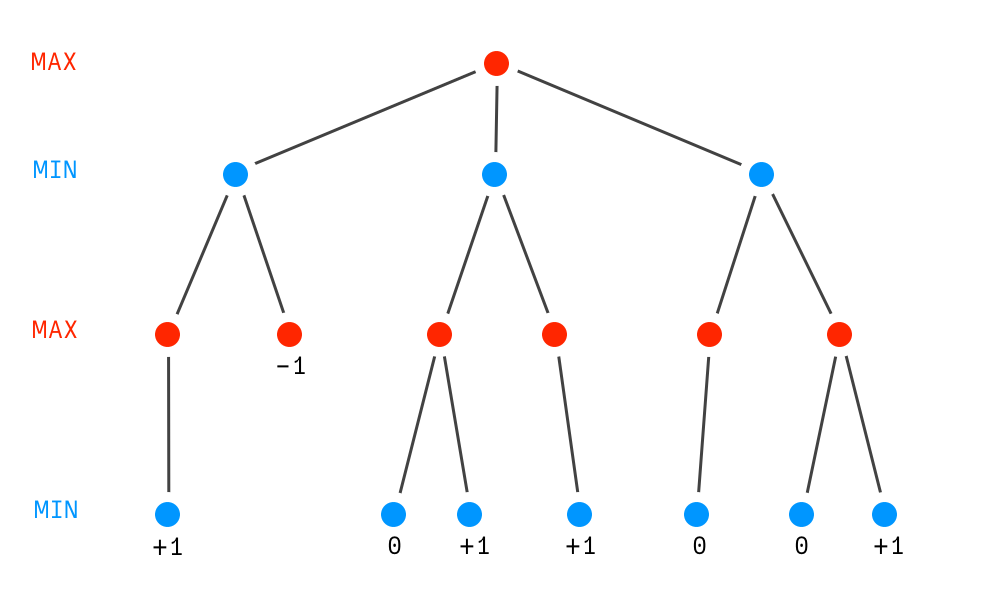
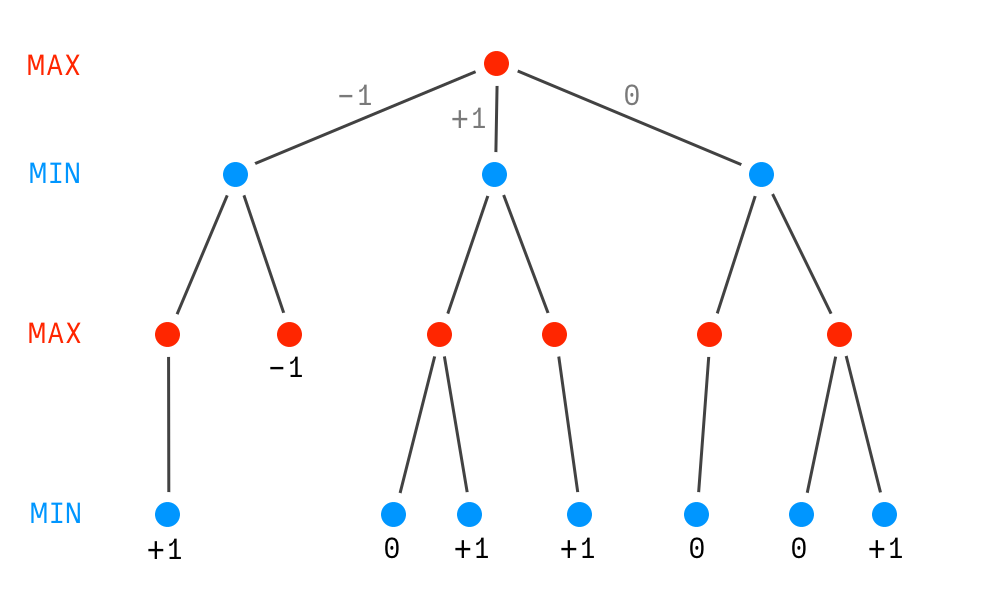
Improve test & images

diff --git a/content/posts/2020-01-13-connect4-ai/index.md b/content/posts/2020-01-13-connect4-ai/index.md
@@ -30,29 +30,31 @@ I just finished building an artificial intelligence for Connect Four that entire
 
 On a high level, the Connect Four AI is a set of (well established) algorithms, which are used to predict and assess how the game could possibly evolve from any given situation. While computers are generally good at performing a lot of calculations in a short amount of time, the problem space of Connect Four is enormous nonetheless: starting from an empty grid, there are almost 5 trillion[^1] possible courses through the game that will either end in one player winning or in a draw. Under the (of course ludicrously utopian) assumption that a computer would be capable of evaluating one prospective turn per clock stroke, it would take a 3 GhZ CPU up to half an hour to eventually decide for a single move. Multiply that by the amount of clock cycles it takes for real and you understand that this wouldn’t be exactly fun to interact with.
 
-My goal with this project was to build an AI that runs completely client-side and that is still challenging to play against. These objectives are somewhat contradictory, because the strength of the AI mostly depends on computing power while the client’s resources can be highly limited (e.g. on older smartphones). In order to limit the waiting time for the user, I decided to concede a certain number computational cycles that the AI is allowed to execute until it must ultimately yield its next move. This is called “iteration budget”. Since the runtime of each iteration is roughly constant, the iteration budget is a simple and sufficient mechanism to keep the overall turn time within reasonable bounds.
+My goal with this project was to build an AI that runs completely client-side and that is still challenging to play against. These objectives are somewhat contradictory, because the strength of the AI mostly depends on computing power while the client’s resources can be highly limited (e.g. on older smartphones). In order to limit the waiting time for the user, I decided to concede a certain number of computational cycles that the AI is allowed to execute until it must ultimately yield its next move. This is called “iteration budget”. Since the runtime of each iteration is roughly constant, the iteration budget is a simple and sufficient mechanism to keep the overall turn time within reasonable bounds.
 
-The technology for the implementation is mostly dictated by the target platform (the web browser), which is why I wrote the AI in JavaScript. It goes without saying that the general performance of the algorithms matters a lot, because the functions are executed over and over again. My project has a strong experimental and educational character, hence I didn’t sacrifice modularity and coding style consistency for performance optimisations. If you are interested in details, you find the [source code](https://github.com/jotaen/connect4-ai) on GitHub. The tech stack is: JavaScript (mostly written in a functional style using the [Ramda library](https://ramdajs.com/)) and React for the web frontend.
+The technology for the implementation is mostly dictated by the target platform (the web browser), which is why I wrote the AI in JavaScript. It goes without saying that the general performance of the algorithms matters a lot, because the functions are executed over and over again. My project has a strong experimental and educational character, so I attributed more importance to modularity and coding style consistency than to excessive performance optimisations. You also might notice that the involved components sometimes have overlapping (redundant) effects.
+
+The [source code](https://github.com/jotaen/connect4-ai) resides on GitHub and the tech stack is: JavaScript (mostly written in a functional style using the [Ramda library](https://ramdajs.com/)) and React for the web frontend. There is also a CLI interface.
 
 # Components of the Connect Four AI
 
 ## Minimax and tree evaluation
 
-The heart of the AI is an algorithm called Minimax. If you haven’t heard of this yet, let me tell you that you have probably already applied it in daily live. Remember, for instance, how football teams were assembled back in school: starting with two captains, each team alternatingly nominates one player to join them until no player is left. The goals are to obtain the best players on the one hand and to establish a good balance of skills at the same time. Each team can only pick one player at a time, so they must assume that the other team will select the next best available player and factor this prediction into their own decision.
+The heart of the AI is an algorithm called Minimax. If that name sounds unfamiliar to you, let me tell you that you have probably already applied it in daily live. Remember, for instance, how football teams were assembled back in school: starting with two captains, each team alternatingly nominates one player to join them until no player is left. The goals are to obtain the best players on the one hand and to establish a good balance of skills at the same time. Each team can only pick one player per turn, so in order to achieve the best possible result they also need to factor in what player the other team will most likely choose afterwards.
 
-The way the AI evaluates future moves of Connect Four follows the same mechanism. It simulates dropping a disc into one of the free slots and then puts itself into the opponent’s shoes to see how they could possibly react. Based on these hypothetic outcomes, it tries out all further options again – and so on and so forth. Both players have precisely opponing goals, because a win for one player automatically means a loss for the other and vice versa[^2]. This decision making strategy can be modelled as a tree structure like so:
+The way the AI evaluates future moves in Connect Four follows the same mechanism. It simulates dropping a disc into each of the free slots and then puts itself into the opponent’s shoes to see how they could possibly react. Based on these hypothetic outcomes, the AI tries out all further options again – and so on and so forth. Both players have precisely opponing goals, because a win for one player automatically means a loss for the other and vice versa[^2]. This decision making strategy can be modelled as a tree structure like so:
 
 ![Decision tree for predicting future game evolvements](/posts/2020-01-13-connect4-ai/game-tree.png)
 
-Let’s settle on some terminology first: the top of the **tree** is called **root node** and represents the current game situation after the opponent has finished their turn. In the picture above there are three choices (think: three available slots to drop into) which are called **branches**. These lead to the next potential game states (**nodes**) and their subsequent **subtrees**. This way the hypothetic future of the game can be explored until a final state is reached – a **leaf node**. This either means that one player has won or that the game has ended in a draw. The **depth** of the above tree is 3 levels. The numbers that are assigned to the leaf nodes are **scores** that are needed to make a quantified decision. Positive scores indicate that the AI would win the game, negative scores mean that it would lose, and neutral score are a draw (here: `0`).
+Let’s settle on some terminology first: the top of the **tree** is called **root node** and represents the current game situation after the opponent has finished their turn. In the picture above there are three choices (think: three available slots to drop into) which are called **branches**. These lead to the next potential game states (**nodes**) and their subsequent **subtrees**. This way the hypothetic future of the game can be explored until a final state is reached – a **leaf node**. This either means that one player has won or that the game has ended in a draw. The **depth** of the above tree is 3 levels. The numbers that are assigned to the leaf nodes are **scores** that are needed to make a quantified decision. Positive scores indicate that the AI would win the game, negative scores mean that it would lose, and a neutral score is a draw (here: `0`).
 
-In order to render a decision for the next move, the tree is unwinded from the leaves upwards: if the AI is on turn (i.e. the node is controlled by MAX) the branch with the highest score is chosen. When the opponent is on turn (i.e. node is controlled by MIN), the AI assumes that the opponent would choose the branch with the lowest possible score. That way the scores bubble up from the leaves to the root, while the decision strategy alternates at every level. As soon as the root level branch happens to have a positive score the AI can be sure that it is able to enforce a win by entering that particular branch (i.e. dropping a disc into that slot). In the above example, the AI would decide for the middle branch – no matter how the opponent would react, the AI can enforce winning the game in any event. This is different for both of the other branches, where the opponent (MIN) would either win (left branch) or could at least enforce a draw (right branch).
+In order to render a decision for the next move, the tree is unwinded from the leaves upwards: if the AI is on turn (i.e. the node is controlled by MAX) the branch with the highest score is chosen. When the opponent is on turn (i.e. node is controlled by MIN), the AI assumes that the opponent would choose the branch with the lowest possible score. That way a score bubbles up from the leaves to the root, while the decision strategy alternates at every level. If a root branch happens to show a positive score, the AI can be sure that it is able to enforce a win by entering that particular branch (i.e. dropping a disc into that slot). In the above example, the AI would decide for the middle branch, because regardless of how the opponent reacts, the AI will bring the game to a win. This is different for both of the other branches, where the game will either be lost (left branch) or ends a draw (right branch). At the end of the day we can only speculate about the opponent’s behaviour of course, but at least we have no reason to believe that they would do us a favour intentionally.
 
-The Minimax algorithm is the heart of the Connect Four AI. While “thinking” the computer repetitively simulates turn after turn in the hope to find a path through the tree that will eventually end in a definite win from the root. Most of the time, unfortunately, this will not be so simple…
+The Minimax algorithm is the heart of the Connect Four AI. While “thinking” the computer repetitively simulates turn after turn in the hope to find a path through the tree that will eventually end in a definite win. Most of the time, unfortunately, things are not that simple…
 
 ## Heuristics
 
-For most of the time during the game, the AI will not be able to evaluate the game tree to the very bottom and discern all leaves. Remember: the maximum tree depth is 42 for a blank grid and we already learned that this would require evaluating almost 5 trillion nodes. Realistically, we can expect to evaluate some thousands or ten thousands nodes at most, depending on the client’s hardware. Therefore, the tree depth must be capped at some level in order to meet the iteration budget. Especially in the beginning of the game there will be mostly unknown scores for the root level branches.
+For most of the time during the game, the AI will not be able to evaluate the game tree to find all leaves. Remember: the maximum tree depth is 42 for a blank grid and we already learned that this would require evaluating almost 5 trillion nodes. Realistically, we can expect to evaluate some thousands or ten thousands nodes at most, depending on the client’s hardware. Therefore, the tree depth must be capped at some level in order to meet the iteration budget. Especially in the beginning of the game there will be mostly unknown scores for the root level branches.
 
 The computer can still make reasonable assumptions in order to maximise its chances, despite there not being any ascertainable or necessarily positive outcomes in sight. These decision-making strategies are called “heuristics” and the AI implements the following of them:
 
@@ -60,22 +62,22 @@ The computer can still make reasonable assumptions in order to maximise its chan
 Center slots generally give better chances than the outer ones to win the game in the best case or to establish advantageous strategies at the least. Therefore the AI will generally prefer center columns. Curiously, as an aside, the only chance for you to win against a perfect Connect Four AI would be to open the game in the center slot. The adjacent slots would only allow for a draw and the four outermost slots would inevitably make you lose the game the moment you drop the first disc into them. All this, however, would require the AI to have almost full prediction depth. It could stall its loss then until the grid is almost entirely filled up.
 
 #### Relative scores:
-There is one key difference in how humans and computers predict the future: the assessment of a computer either yields a well-defined score or no score at all, whereas the assessment of a human somehow gets more and more “fuzzy” with increasing prediction depth. As shown in the tree above it might happen that the AI detects negative scores (i.e. potential losses) on all root branches. No matter how the AI would decide, the opponent can potentially enforce a loss in any event. As a human player, however, you maybe don’t see all your opportunities, because they are too far ahead. Therefore, the AI will always choose the “smallest evil” and enter the branch where the loss is the farthest away. In the tree below the AI would go for the middle branch, because there is at least a slight chance to turn the tide if the opponent happens to make a mistake in their turn. Without relative scores, it would seem as if the AI “gave up” the moment it detects its loss. This could cause weird behaviour, because the human opponent might not even be aware of their potential to win the game.
+There is one key difference in how humans and computers predict the future: the assessment of a computer either yields a well-defined score or no score at all, whereas the assessment of a human somehow gets more and more “fuzzy” with increasing prediction depth. As shown in the tree below it might happen that the AI detects negative scores (i.e. potential losses) for all root branches. No matter how the AI would decide, the opponent can potentially enforce a loss in any event. As a human player, however, you maybe don’t even recognise all your opportunities, because they are too far ahead. To account for that, the AI will always choose the “smallest evil” and enter the branch where the loss is the farthest away. In the tree below the AI would go for the middle branch, because there is at least a slight chance to turn the tide if the opponent happens to make a mistake in their turn. Without relative scores, it would seem as if the AI “gave up” the moment it detects its loss. This could cause weird behaviour, because the human opponent might not even be aware of their fortunate to make the AI lose.
 
 ![Relative scoring](/posts/2020-01-13-connect4-ai/relative-scoring.png)
 
 #### Acting on opportunities:
-A similar mechanism comes into play when the AI only concludes indeterminate scores for the root branches. This effectively means that it cannot enforce a win by making its next move. This doesn’t imply, however, that there wouldn’t be any win opportunities at all down the line. As we already discussed, humans tend to overlook or misjudge constellations the more turns they consist of or the farther away they are. Therefore, the AI will favour branches with the highest chance for the human opponent to make a mistake, which the AI could then take advantage of. In other words: when there is no better option, the AI tries to allure you into situations where it’s most likely for you to screw it up.
+A similar mechanism comes into play when the AI concludes nothing better than indeterminate scores for the root branches. This effectively means the game won’t enter a definite state within the next two turns. (Well, at least as far as the AI can tell…) This doesn’t imply, however, that there wouldn’t be any good opportunities down the line. As we already discussed, humans tend to overlook or misjudge constellations the more turns they consist of or the farther away they are. Therefore, the AI will favour branches with the highest chance for the human opponent to make a mistake, which the AI could then take advantage of. In other words: when there is no better option, the AI tries to allure you into situations where it’s most likely for you to screw it up.
 
 ## Deep cut-off / pruning
 
 The end result of a Connect Four match comes down to all or nothing – you either win or you don’t win. There are, for example, no extra points for winning fast or for managing to connect more than four discs. This has an important implication for the evaluation of the game tree: from any given node, if the AI finds a winning path, it can stop evaluating all remaining adjacent branches (and hence the corresponding subtrees) of that particular node. After all, it’s not important to know that there would be additional ways to win – a single one is enough. The AI is rather better off to safe precious iteration budget for other parts of the game tree. This technique is called “pruning” or “deep cut-off” and the potential savings in computational effort can be immense.
 
-When it comes to pruning there is one caveat in regards to the human opponent, though. Cutting off subtrees implies that the respective player will reliably spot the even most remote opportunity and follow that path thrustfully without making a mistake along the way. This is true for a computer, but not so much for a human being, as we already discussed in the previous section. Consequently, the AI cannot just cut off subtrees on behalf of the opponent the same way it does it for itself. It rather needs to continue evaluating a respective node in order to figure out the closest possible loss. There is still room for optimisation, though: the prediction depth for the subtree of that node can be limited, because the AI only needs to check for loss candidates that are *closer* than the one already found.
+When it comes to pruning there is one caveat in regards to the human opponent, though. Cutting off subtrees implies that the respective player will reliably spot the even most remote opportunity and follow that path thrustfully without making a mistake along the way. This is true for a computer, but not so much for a human being, as we already discussed in the previous section. Consequently, the AI cannot just cut off subtrees on behalf of the opponent the same way it does it for itself. It rather needs to continue evaluating a respective node in order to discern the closest possible loss. There is still room for optimisation, though: the prediction depth for the subtree of that node can be limited, because the AI only needs to check for loss candidates that are *closer* than the one already found.
 
 ![Pruning / deep cut-off](/posts/2020-01-13-connect4-ai/pruning.png)
 
-This tree shows how both techniques come into effect. The right part shows the deep cut-off of entire subtrees once an enforcable positive score has been found. All remaining adjacent branches can be cut-off as if they wouldn’t exist. The left part shows how the prediction depth for a subtree is limited when an enforcable negative score has been found. If the AI didn’t do this, the corresponding root level branch would errorneously show a score of `-0.5` instead of `-1`, which could cause the AI to make a unfavourable (read: badly informed) decision.
+The above tree shows how both techniques come into effect. The right part shows a deep cut-off of entire subtrees once an enforcable positive score has been found. All remaining adjacent branches can be disregarded as if they wouldn’t exist. The left part shows how the prediction depth for a subtree is limited when an enforcable negative score has been found. If the AI didn’t do this, the corresponding root level branch would errorneously show a score of `-0.5` instead of `-1`, which could cause the AI to make a unfavourable (read: badly informed) decision.
 
 ## Caching transpositions
 
